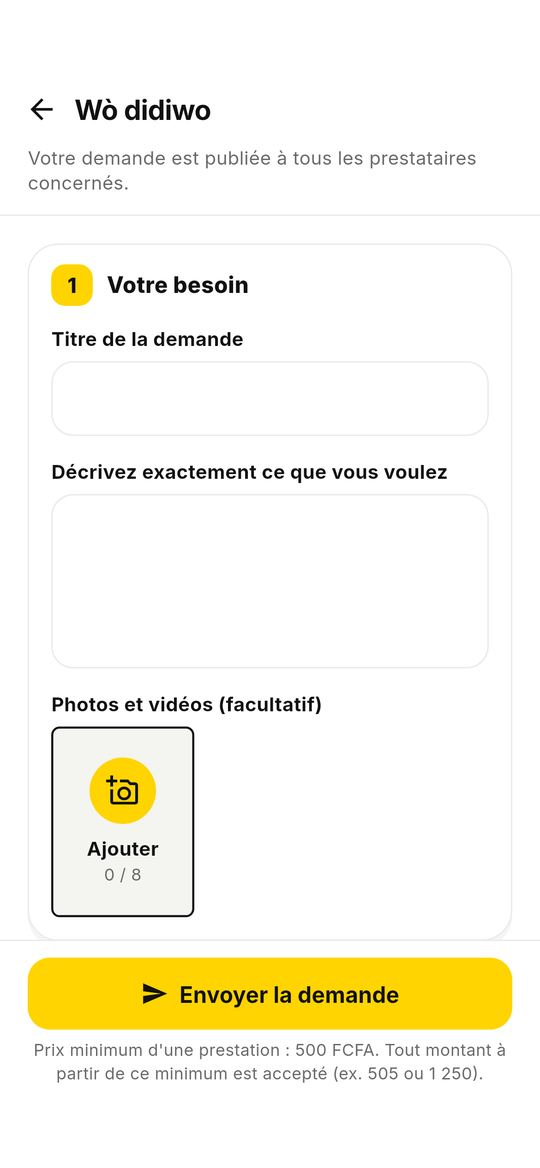
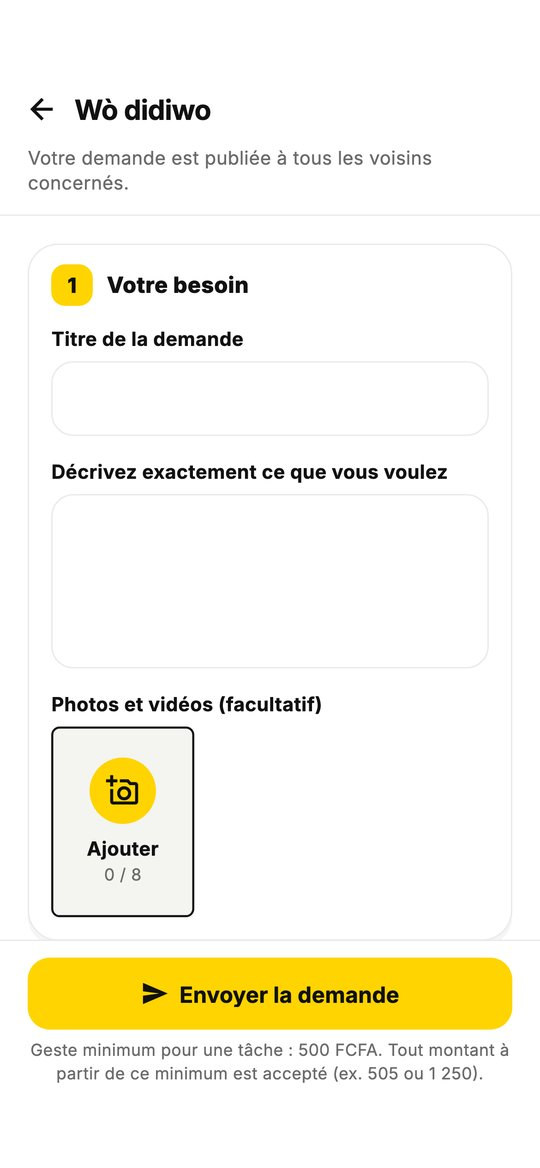
Mode d'emploi : nouvelles captures (lexique Kɔƒe)
Claude-Session: https://claude.ai/code/session_018bK9aPASqPsDW8TBt2oTtu

diff --git a/guide.html b/guide.html
@@ -56,7 +56,7 @@
 <li><b>La tâche est accomplie.</b> Vous la suivez, et vous confirmez quand c'est bien fait.</li>
 </ol></div></div></section>
 <section class="g-sec" id="donner"><div class="g-two">
-<figure class="g-shot"><img src="assets/img/guide/08_accueil_prestataire.jpg" alt="L'accueil de celui qui donne un coup de main" width="540" height="1168" loading="lazy"></figure>
+<figure class="g-shot"><img src="assets/img/guide/08_accueil_prestataire.jpg" alt="L'accueil du voisin qui apporte son aide" width="540" height="1168" loading="lazy"></figure>
 <div><h2>Donner un coup de main</h2><ol class="g-list">
 <li><b>Les demandes défilent.</b> Celles de vos voisins arrivent sur votre accueil.</li>
 <li><b>Wò tamesusuwo.</b> Échangez avec celui qui vous confie la tâche jusqu'à trouver un accord.</li>
